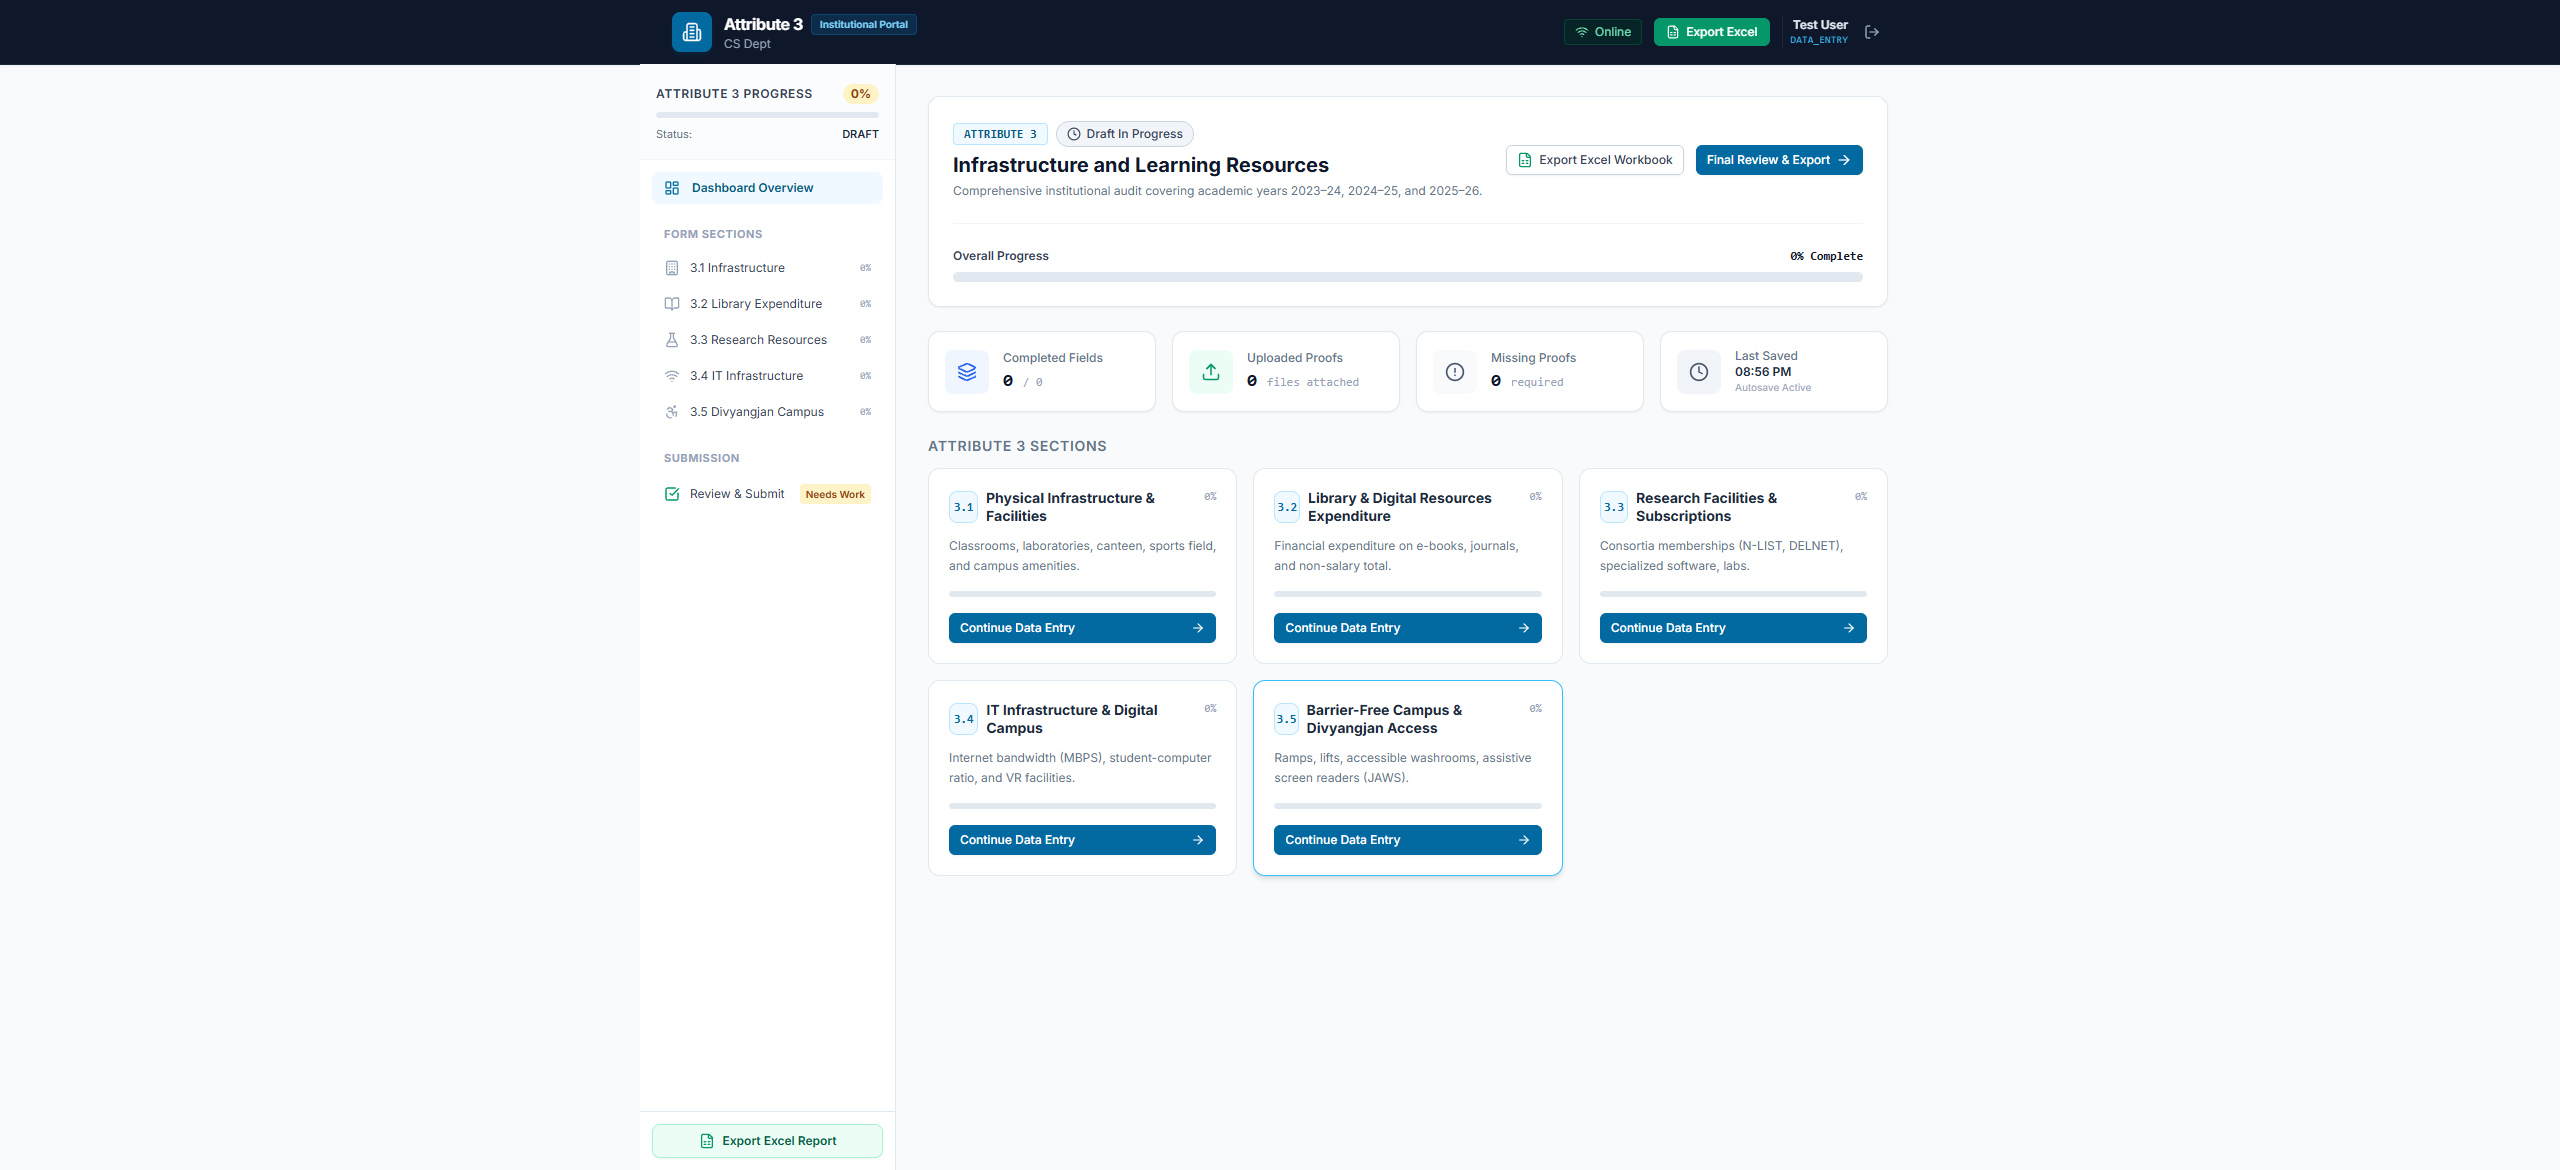
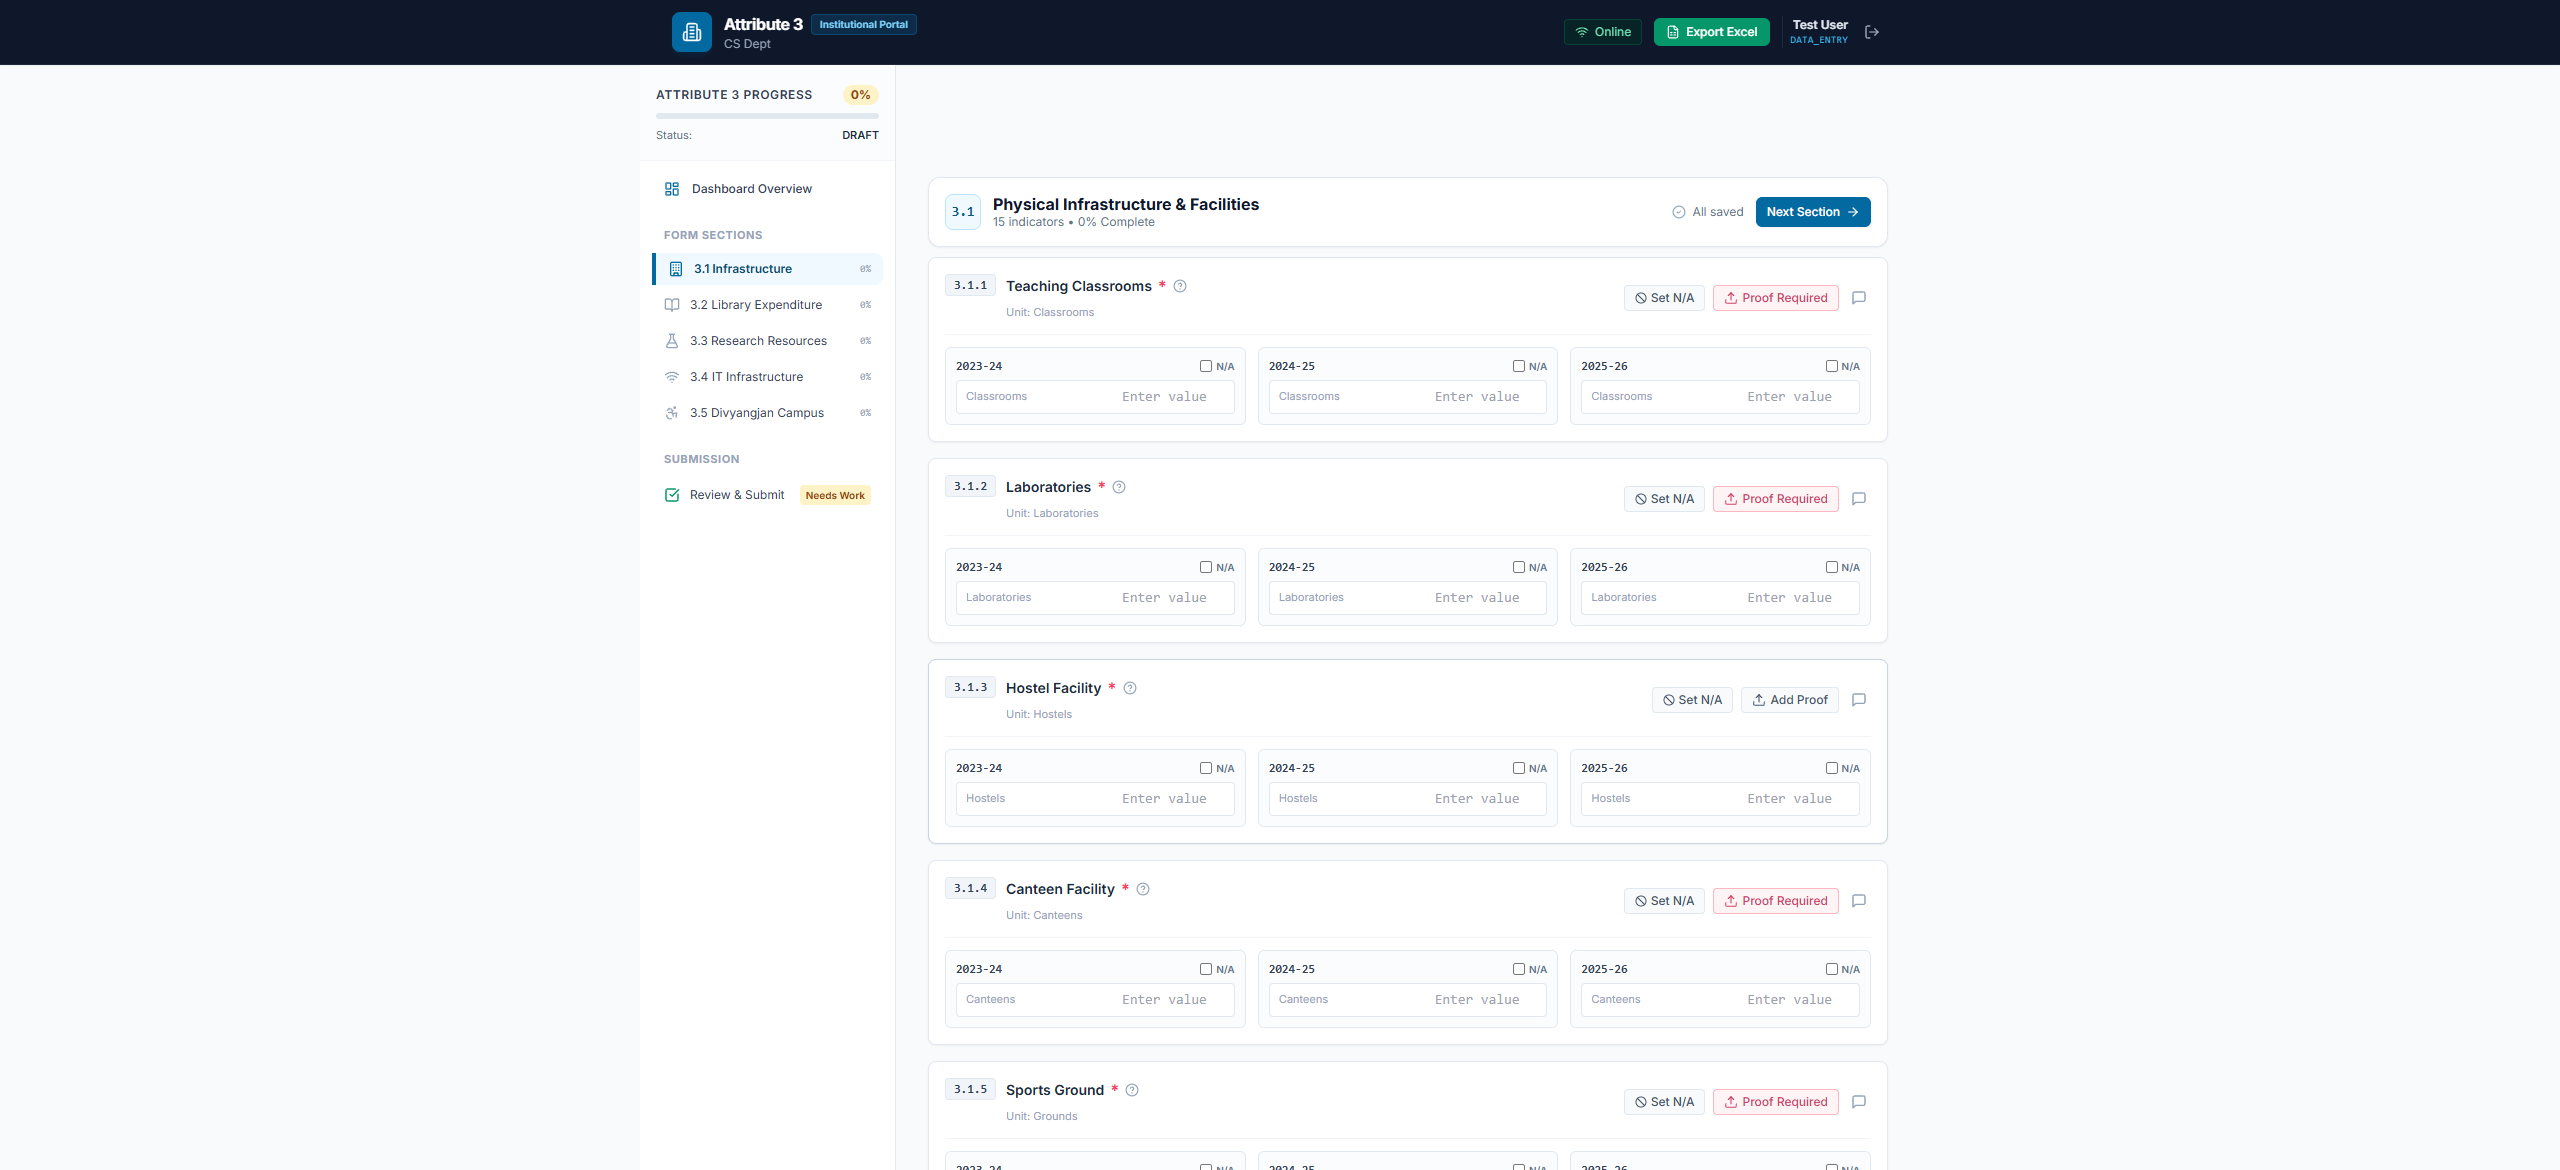
fix: refactor layout to use fixed viewport height with internal scrolling for main content

diff --git a/frontend/src/components/layout/Sidebar.tsx b/frontend/src/components/layout/Sidebar.tsx
@@ -59,7 +59,7 @@ export const Sidebar: React.FC<SidebarProps> = ({
 
   return (
     <aside 
-      className={`fixed inset-y-0 left-0 z-50 w-64 bg-white border-r border-slate-200 flex flex-col flex-shrink-0 transition-transform duration-300 ease-in-out md:sticky md:top-16 md:self-start md:z-30 md:h-[calc(100vh-4rem)] md:translate-x-0 ${
+      className={`fixed inset-y-0 left-0 z-50 w-64 bg-white border-r border-slate-200 flex flex-col flex-shrink-0 transition-transform duration-300 ease-in-out md:static md:z-auto md:h-full md:translate-x-0 overflow-y-auto ${
         isOpen ? 'translate-x-0' : '-translate-x-full'
       }`}
     >

diff --git a/frontend/src/App.tsx b/frontend/src/App.tsx
@@ -85,10 +85,10 @@ export const App: React.FC = () => {
   }
 
   return (
-    <div className="min-h-screen bg-slate-50 flex flex-col">
+    <div className="h-screen bg-slate-50 flex flex-col overflow-hidden">
       <Navbar submissionId={submission?.id} onExportExcel={handleExportExcel} onToggleSidebar={() => setIsSidebarOpen(!isSidebarOpen)} />
 
-      <div className="flex-1 flex max-w-7xl w-full mx-auto relative">
+      <div className="flex-1 flex max-w-7xl w-full mx-auto relative overflow-hidden">
         {/* Mobile Sidebar Overlay */}
         {isSidebarOpen && (
           <div 

diff --git a/frontend/src/components/layout/Navbar.tsx b/frontend/src/components/layout/Navbar.tsx
@@ -42,7 +42,7 @@ export const Navbar: React.FC<NavbarProps> = ({ submissionId, onExportExcel, onT
   };
 
   return (
-    <header className="w-full bg-slate-900 text-white border-b border-slate-800 sticky top-0 z-50 shadow-sm">
+    <header className="w-full bg-slate-900 text-white border-b border-slate-800 relative z-50 shadow-sm flex-shrink-0">
       <div className="max-w-7xl mx-auto px-4 sm:px-6 lg:px-8">
         <div className="flex items-center justify-between h-16">
           {/* Brand & Institution */}
